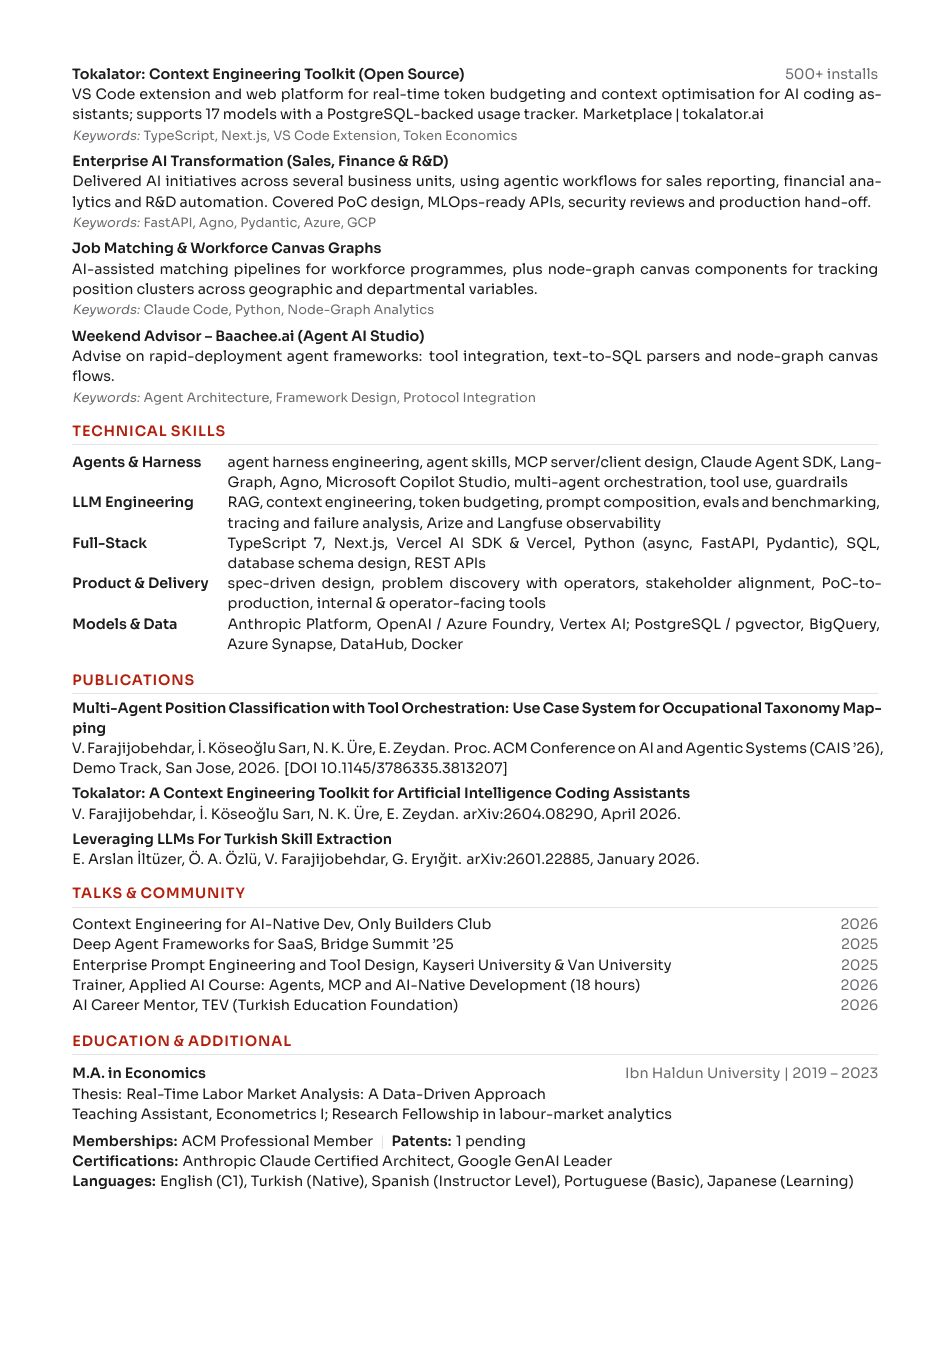
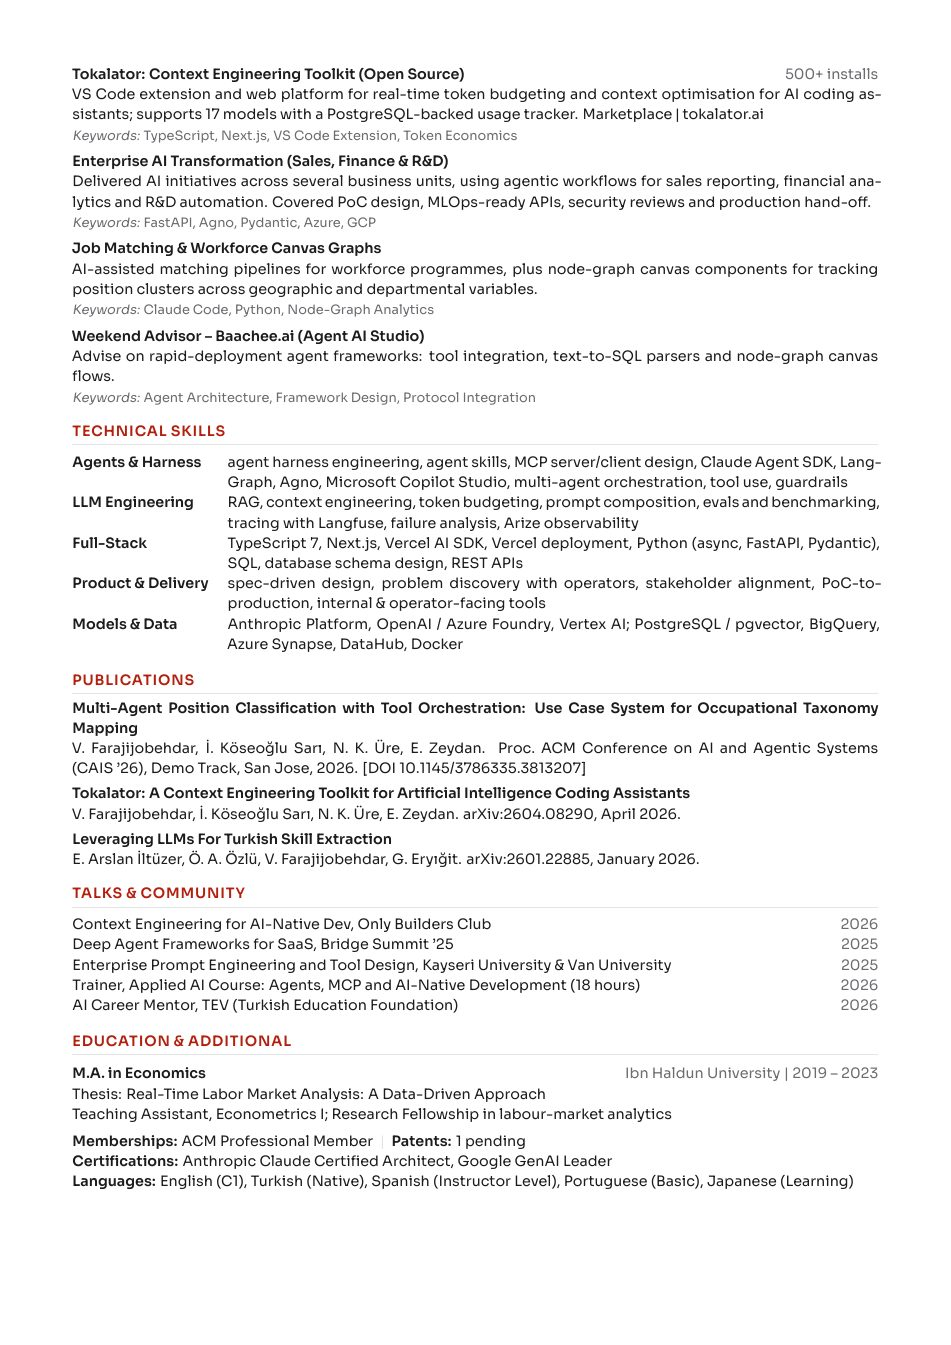
Add Langfuse tracing and Vercel deployment to the stack
List Langfuse for LLM tracing and Vercel for deployment in the recruiter
card, the abacus-to-agents footer (Vercel under Scale, Langfuse under
Orchestrate), the Evals chip, structured data, keywords, the llms files
and the CV's core skills and technical skills. The CV also gets a little
emergency stretch so the publication lines no longer overrun the margin.

Claude-Session: https://claude.ai/code/session_01B8gLePyNAj6bWap396SrEL

Changed region(s): [[0.061, 0.4996, 0.9148, 0.5933], [0.244, 0.3747, 0.7319, 0.4372], [0.7624, 0.3747, 0.9148, 0.4059]]

diff --git a/site/index.html b/site/index.html
@@ -33,7 +33,7 @@
     <link rel="sitemap" type="application/xml" href="sitemap.xml">
     <meta name="robots" content="index, follow, max-image-preview:large, max-snippet:-1">
     <meta name="author" content="Vahid Faraji">
-    <meta name="keywords" content="Vahid Faraji, AI-Native Architect, AI-Native, Agentic AI, Agentic Workflows, AI Architect, Applied AI Engineer, AI Engineer, Agentic AI Engineer, Agent Harness, LLM Agents, Tool Calling, Agent Execution Loop, Agent Memory, Context Engineering, Agent Skills, Multi-Step Execution, LLM Evals, Evaluations, Tracing, Failure Analysis, Observability, Production AI, Reliability, Latency, Cost Optimization, Resumable Long-Running Tasks, Human-in-the-Loop, Spec-Driven Development, Database Schema Design, Full Stack, TypeScript, Python, Backend, API Integrations, RAG, Retrieval, Orchestration, Multi-Agent Systems, MCP, Model Context Protocol, LangGraph, Claude, Claude Agent SDK, Anthropic Platform, Vercel AI SDK, Microsoft Copilot Studio, TypeScript 7, Tokalator, ACM CAIS, Istanbul, Remote">
+    <meta name="keywords" content="Vahid Faraji, AI-Native Architect, AI-Native, Agentic AI, Agentic Workflows, AI Architect, Applied AI Engineer, AI Engineer, Agentic AI Engineer, Agent Harness, LLM Agents, Tool Calling, Agent Execution Loop, Agent Memory, Context Engineering, Agent Skills, Multi-Step Execution, LLM Evals, Evaluations, Tracing, Langfuse, LLM Observability, Vercel, Failure Analysis, Observability, Production AI, Reliability, Latency, Cost Optimization, Resumable Long-Running Tasks, Human-in-the-Loop, Spec-Driven Development, Database Schema Design, Full Stack, TypeScript, Python, Backend, API Integrations, RAG, Retrieval, Orchestration, Multi-Agent Systems, MCP, Model Context Protocol, LangGraph, Claude, Claude Agent SDK, Anthropic Platform, Vercel AI SDK, Microsoft Copilot Studio, TypeScript 7, Tokalator, ACM CAIS, Istanbul, Remote">
 
     <!-- Google Analytics 4 -->
     <script async src="https://www.googletagmanager.com/gtag/js?id=G-GTZW5NNEZ5"></script>
@@ -150,6 +150,8 @@
                     "Vercel AI SDK",
                     "Anthropic Platform (Claude Agent SDK)",
                     "Microsoft Copilot Studio",
+                    "Langfuse (LLM tracing and observability)",
+                    "Vercel (deployment)",
                     "FastAPI",
                     "Python",
                     "Text-to-SQL",
@@ -2470,7 +2472,7 @@
                 <dl class="rc-facts">
                     <div><dt>Role fit</dt><dd>AI-Native Architect &middot; Applied AI Engineer &middot; Agentic AI Engineer &middot; AI Platform Engineer</dd></div>
                     <div><dt>Builds</dt><dd>Agent harnesses (loop, tools, context, memory) &middot; evals from real tasks &middot; spec to production, full stack</dd></div>
-                    <div><dt>Stack</dt><dd>TypeScript&nbsp;7 &middot; Python &middot; Next.js &middot; Claude Agent SDK &middot; Vercel AI SDK &middot; Copilot Studio &middot; MCP &middot; LangGraph</dd></div>
+                    <div><dt>Stack</dt><dd>TypeScript&nbsp;7 &middot; Python &middot; Next.js &middot; Claude Agent SDK &middot; Vercel AI SDK &middot; Copilot Studio &middot; MCP &middot; LangGraph &middot; Langfuse tracing &middot; deploys on Vercel</dd></div>
                     <div><dt>Logistics</dt><dd>Istanbul, GMT+3 &middot; remote-friendly &middot; open to relocating to Amsterdam &middot; English C1</dd></div>
                 </dl>
 
@@ -2487,7 +2489,7 @@
                 <button type="button" class="bio-tag accent" aria-label="AI-Native Architecture: Spec → Agents → Evals"><span class="chip-face chip-a"><svg class="ab" aria-hidden="true"><use href="#ab-layers"/></svg>AI-Native Architecture</span><span class="chip-face chip-b" aria-hidden="true">Spec → Agents → Evals</span></button>
                 <button type="button" class="bio-tag accent" aria-label="Agent Harnesses: Loops · Tools · Memory"><span class="chip-face chip-a"><svg class="ab" aria-hidden="true"><use href="#ab-loop"/></svg>Agent Harnesses</span><span class="chip-face chip-b" aria-hidden="true">Loops · Tools · Memory</span></button>
                 <button type="button" class="bio-tag accent" aria-label="Context Engineering: Token budgets · Caching"><span class="chip-face chip-a"><svg class="ab" aria-hidden="true"><use href="#ab-window"/></svg>Context Engineering</span><span class="chip-face chip-b" aria-hidden="true">Token budgets · Caching</span></button>
-                <button type="button" class="bio-tag accent" aria-label="Evals &amp; Observability: Traces · Failure analysis"><span class="chip-face chip-a"><svg class="ab" aria-hidden="true"><use href="#ab-bars"/></svg>Evals &amp; Observability</span><span class="chip-face chip-b" aria-hidden="true">Traces · Failure analysis</span></button>
+                <button type="button" class="bio-tag accent" aria-label="Evals &amp; Observability: Langfuse traces · Failure analysis"><span class="chip-face chip-a"><svg class="ab" aria-hidden="true"><use href="#ab-bars"/></svg>Evals &amp; Observability</span><span class="chip-face chip-b" aria-hidden="true">Langfuse traces · Failure analysis</span></button>
                 <button type="button" class="bio-tag" aria-label="Agentic Workflows: Long-running · Resumable"><span class="chip-face chip-a"><svg class="ab" aria-hidden="true"><use href="#ab-flow"/></svg>Agentic Workflows</span><span class="chip-face chip-b" aria-hidden="true">Long-running · Resumable</span></button>
                 <button type="button" class="bio-tag" aria-label="MCP &amp; Agent Skills: Tools · SKILL.md"><span class="chip-face chip-a"><svg class="ab" aria-hidden="true"><use href="#ab-plug"/></svg>MCP &amp; Agent Skills</span><span class="chip-face chip-b" aria-hidden="true">Tools · SKILL.md</span></button>
                 <button type="button" class="bio-tag" aria-label="Multi-Agent Systems: LangGraph · Agno · SDKs"><span class="chip-face chip-a"><svg class="ab" aria-hidden="true"><use href="#ab-agents"/></svg>Multi-Agent Systems</span><span class="chip-face chip-b" aria-hidden="true">LangGraph · Agno · SDKs</span></button>
@@ -2959,13 +2961,13 @@
                         <svg class="ab jr-icon" aria-hidden="true"><use href="#ab-cloud"/></svg>
                         <span class="jr-verb">Scale</span>
                         <span class="jr-sub">Platforms and governance</span>
-                        <span class="jr-skills">Azure · Google Cloud · DataHub · Azure DevOps</span>
+                        <span class="jr-skills">Vercel · Azure · Google Cloud · DataHub · Azure DevOps</span>
                     </li>
                     <li class="jr-stop is-now" data-i="4" tabindex="0">
                         <svg class="ab jr-icon" aria-hidden="true"><use href="#ab-agents"/></svg>
                         <span class="jr-verb">Orchestrate</span>
                         <span class="jr-sub">Agents in production</span>
-                        <span class="jr-skills">Anthropic Platform (Claude Agent SDK) · Vercel AI SDK · Microsoft Copilot Studio · MCP · LangGraph</span>
+                        <span class="jr-skills">Anthropic Platform (Claude Agent SDK) · Vercel AI SDK · Microsoft Copilot Studio · MCP · LangGraph · Langfuse</span>
                     </li>
                 </ol>
             </div>

diff --git a/cv/vahid-faraji-cv.tex b/cv/vahid-faraji-cv.tex
@@ -58,6 +58,7 @@
 \setlength{\parskip}{0pt}
 \pagestyle{empty}
 \linespread{1.06}
+\setlength{\emergencystretch}{1.5em}
 
 \titleformat{\section}{\color{brandDeep}\bfseries\addfontfeatures{LetterSpace=6}}{}{0pt}{\MakeUppercase}[\vspace{1pt}{\color{rule}\titlerule[0.6pt]}]
 \titlespacing*{\section}{0pt}{9pt}{5pt}
@@ -95,7 +96,7 @@ observability, reliability and token cost. Published at ACM CAIS~'26; ACM Profes
 
 \vspace{4pt}
 {\small\textbf{Core skills:} AI-Native Architecture\sep Agent Harness Engineering\sep LLM Evals\sep RAG\sep Tool Use / MCP\sep
-Agent Skills\sep TypeScript~7\sep Next.js\sep Vercel AI SDK\sep Claude Agent SDK\sep Microsoft Copilot Studio\sep Python\sep
+Agent Skills\sep Langfuse Tracing\sep TypeScript~7\sep Next.js\sep Vercel AI SDK\sep Vercel\sep Claude Agent SDK\sep Microsoft Copilot Studio\sep Python\sep
 PostgreSQL\sep Spec-Driven Design\sep Database Schema Design}
 
 % ---- experience ------------------------------------------------------------
@@ -168,8 +169,8 @@ Advise on rapid-deployment agent frameworks: tool integration, text-to-SQL parse
   Agents \& Harness & agent harness engineering, agent skills, MCP server/client design, Claude Agent SDK, LangGraph, Agno,
                       Microsoft Copilot Studio, multi-agent orchestration, tool use, guardrails \\[1pt]
   LLM Engineering   & RAG, context engineering, token budgeting, prompt composition, evals and benchmarking,
-                      tracing and failure analysis, Arize and Langfuse observability \\[1pt]
-  Full-Stack        & TypeScript~7, Next.js, Vercel AI SDK \& Vercel, Python (async, FastAPI, Pydantic), SQL,
+                      tracing with Langfuse, failure analysis, Arize observability \\[1pt]
+  Full-Stack        & TypeScript~7, Next.js, Vercel AI SDK, Vercel deployment, Python (async, FastAPI, Pydantic), SQL,
                       database schema design, REST APIs \\[1pt]
   Product \& Delivery & spec-driven design, problem discovery with operators, stakeholder alignment,
                       PoC-to-production, internal \& operator-facing tools \\[1pt]
